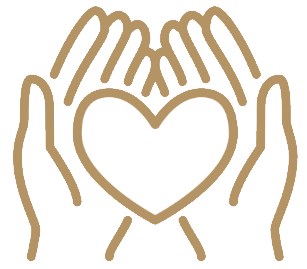
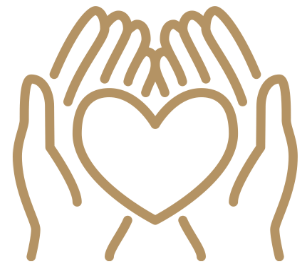
Revert : retour du site à l'état d'avant l'essai de palette dorée
Annule complètement c90b7d5 et fb1ccec (fond crème, blocs dorés, et le
détourage des logos/icônes) à la demande du client après visualisation en
production — pas assez concluant.

diff --git a/src/pages/Home.tsx b/src/pages/Home.tsx
@@ -198,7 +198,7 @@ export default function Home() {
   }, [currentText, isDeleting, currentWordIndex, typingSpeed]);
 
   return (
-    <div className="w-full font-sans bg-[#FBF3E3] flex flex-col">
+    <div className="w-full font-sans bg-white flex flex-col">
       {/* Hero Section */}
       <div id="accueil" className="relative min-h-screen w-full overflow-hidden">
         {/* Background image as a real <img>, not a CSS background-image: the browser's
@@ -323,7 +323,7 @@ export default function Home() {
       </div>
 
       {/* Features Section */}
-      <section id="services" className="w-full py-14 md:py-24 px-8 md:px-16 lg:px-20 bg-[#FBF3E3]">
+      <section id="services" className="w-full py-14 md:py-24 px-8 md:px-16 lg:px-20 bg-white">
         <h2 className="text-[26px] md:text-[40px] font-bold text-center mb-10 md:mb-24" style={{ color: brandColor }}>
           {t.features.title}
         </h2>
@@ -441,7 +441,7 @@ export default function Home() {
       </section>
 
       {/* Teintes Section */}
-      <section id="produit" className="w-full py-24 px-8 md:px-16 lg:px-20 bg-[#FBF3E3]">
+      <section id="produit" className="w-full py-24 px-8 md:px-16 lg:px-20 bg-white">
         <h2 className="text-[32px] md:text-[40px] font-bold text-center mb-4" style={{ color: brandColor }}>
           {t.teintes.title}
         </h2>
@@ -649,7 +649,7 @@ export default function Home() {
           back a B2B pitch. Do not re-add without being asked. */}
 
       {/* Avis Section */}
-      <section id="avis" className="w-full bg-[#FBF3E3] py-24">
+      <section id="avis" className="w-full bg-white py-24">
         <div className="max-w-7xl mx-auto px-8 md:px-16 lg:px-20">
           {/* Title */}
           <div className="text-center mb-20 flex flex-col items-center">
@@ -868,7 +868,7 @@ export default function Home() {
       </section>
 
       {/* Map Section */}
-      <section className="relative w-full bg-[#FBF3E3] py-14 md:py-24 overflow-hidden border-t border-[#eadfc9]">
+      <section className="relative w-full bg-[#FAF9F6] py-14 md:py-24 overflow-hidden border-t border-gray-100">
         {/* Background Image — covers the full section behind all content */}
         <div className="absolute inset-0 pointer-events-none mix-blend-multiply">
            <img loading="lazy" src="/images/Bruxelles.webp" width={1280} height={721} className="w-full h-full object-cover opacity-80" alt="" referrerPolicy="no-referrer" />
@@ -919,7 +919,7 @@ export default function Home() {
             {/* Soft clearing behind the pin graphic so the map lines fade out instead of crossing over it */}
             <div
               className="absolute inset-0 pointer-events-none"
-              style={{ background: 'radial-gradient(ellipse 65% 65% at 50% 50%, #FBF3E3 45%, rgba(251,243,227,0) 85%)' }}
+              style={{ background: 'radial-gradient(ellipse 65% 65% at 50% 50%, #FAF9F6 45%, rgba(250,249,246,0) 85%)' }}
             ></div>
             <img loading="lazy" src="/bx_transparent.png" alt="Carte de Bruxelles et sa périphérie desservies par VitraCare" width={874} height={740} className="relative w-full h-auto max-w-[650px] object-contain drop-shadow-2xl" referrerPolicy="no-referrer" />
           </div>
